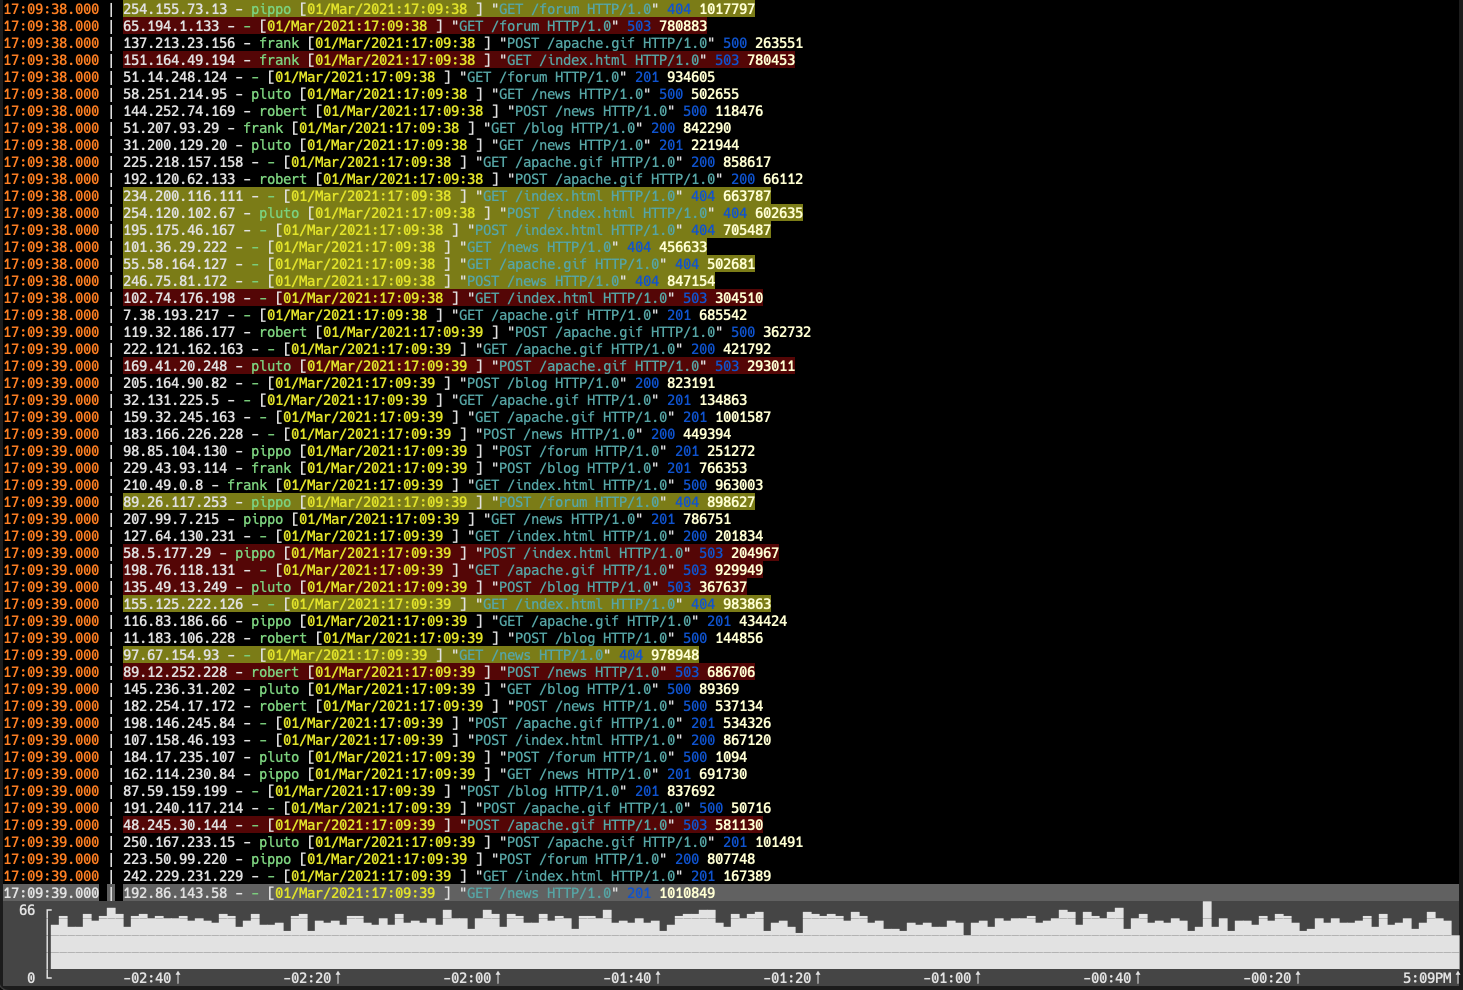
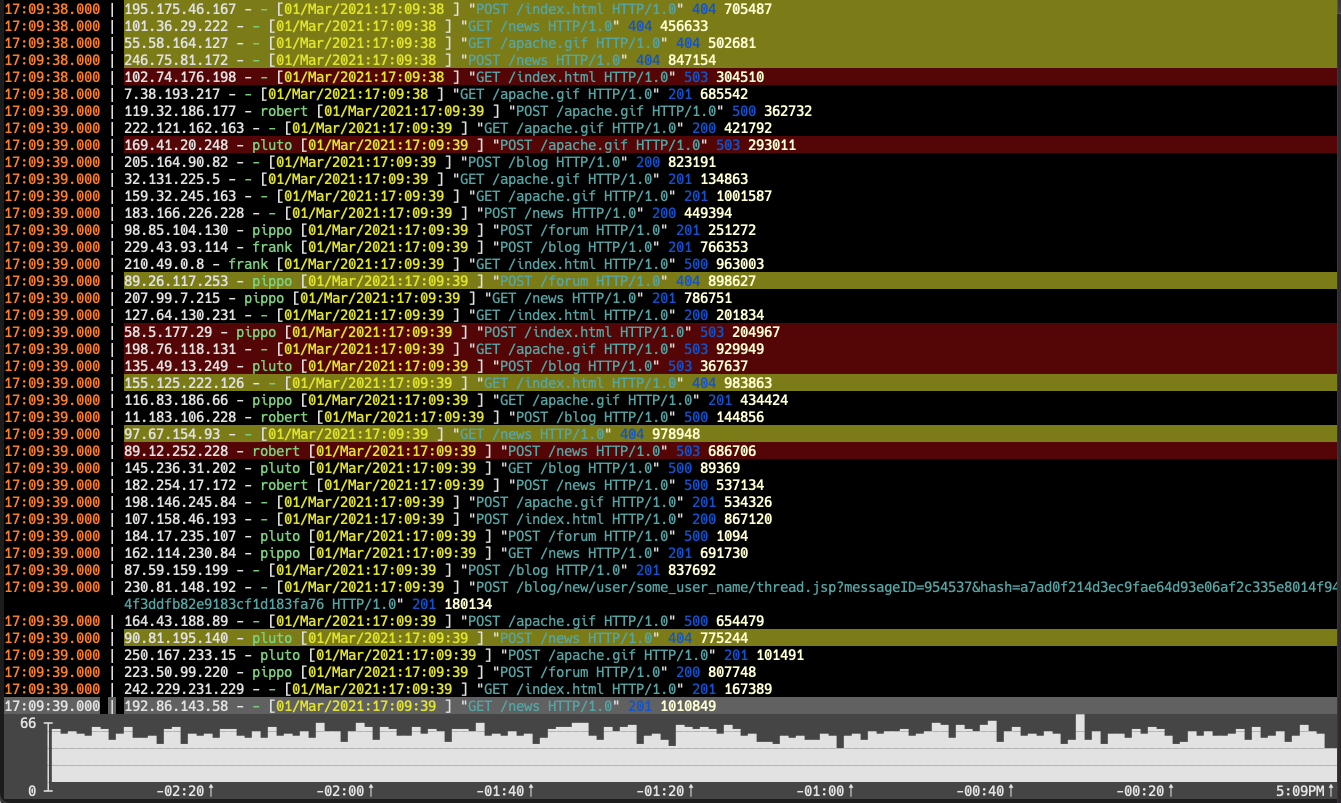
Fix deadlock when selecting event with mouse

diff --git a/logview.go b/logview.go
@@ -56,6 +56,7 @@ func (e *logEventLine) copy() *logEventLine {
 	return eventCopy
 }
 
+// OnCurrentChanged is an event time that is fired when current log event is changed
 type OnCurrentChanged func(current *LogEvent)
 
 // LogView is a Box that displays log events
@@ -413,6 +414,26 @@ func (lv *LogView) AppendEvents(events []*LogEvent) {
 	}
 }
 
+// ScrollPageDown scrolls the log view one screen down
+//
+// This will enable autofollowing if the last line has been reached
+func (lv *LogView) ScrollPageDown() {
+	lv.Lock()
+	defer lv.Unlock()
+
+	lv.scrollPageDown()
+}
+
+// ScrollPageUp scrolls the log view one screen up
+//
+// This does not disables following.
+func (lv *LogView) ScrollPageUp() {
+	lv.Lock()
+	defer lv.Unlock()
+
+	lv.scrollPageUp()
+}
+
 // ScrollToBottom scrolls the log view to the last event
 //
 // This does not automatically enables following. User SetFollowing function to enable it
@@ -613,20 +634,20 @@ func (lv *LogView) MouseHandler() func(action cview.MouseAction, event *tcell.Ev
 			return false, nil
 		}
 
-		lv.Lock()
-		defer lv.Unlock()
-
 		switch action {
 		case cview.MouseLeftClick:
-			localY := y + lv.screenCoords[1]
-			lv.setCurrent(lv.atOffset(lv.top, localY))
 			consumed = true
 			setFocus(lv)
+
+			lv.Lock()
+			defer lv.Unlock()
+			localY := y - lv.screenCoords[1]
+			lv.setCurrent(lv.atOffset(lv.top, localY))
 		case cview.MouseScrollUp:
-			lv.scrollPageUp()
+			lv.ScrollPageUp()
 			consumed = true
 		case cview.MouseScrollDown:
-			lv.scrollPageDown()
+			lv.ScrollPageDown()
 			consumed = true
 		}
 
@@ -1025,8 +1046,9 @@ func (lv *LogView) printLogLine(screen tcell.Screen, x int, y int, event *logEve
 	}
 	textPos := event.start
 	i := x
+	var style tcell.Style
 	for textPos < event.end {
-		style := event.styleSpans[spanIndex].style
+		style = event.styleSpans[spanIndex].style
 		if lv.highlightCurrent && event == lv.current { // overwrite bg color for current selected event
 			style = style.Background(lv.currentBgColor)
 		}
@@ -1037,8 +1059,7 @@ func (lv *LogView) printLogLine(screen tcell.Screen, x int, y int, event *logEve
 			spanIndex++
 		}
 	}
-	style := lv.defaultStyle.Background(lv.currentBgColor)
-	if i < lv.pageWidth && lv.highlightCurrent && event == lv.current {
+	if i < x+lv.pageWidth {
 		for i < x+lv.pageWidth {
 			screen.SetCell(i, y, style, ' ')
 			i++
@@ -1059,7 +1080,7 @@ func (lv *LogView) printLogLineNoHighlights(screen tcell.Screen, x int, y int, e
 			break
 		}
 	}
-	if i < lv.pageWidth && lv.highlightCurrent && event == lv.current {
+	if i < x+lv.pageWidth && lv.highlightCurrent && event == lv.current {
 		for i < x+lv.pageWidth {
 			screen.SetCell(i, y, style, ' ')
 			i++

diff --git a/main.go b/main.go
@@ -97,7 +97,7 @@ func main() {
 
 	lastTime := time.Date(2000, 1, 1, 1, 1, 1, 1, time.Local)
 	for i, line := range lines {
-		if len(strings.TrimSpace(line)) > 0 && rand.Float64() < 0.4 {
+		if len(strings.TrimSpace(line)) > 0 && rand.Float64() < 0.4 || len(line) > 100 {
 			st := status.FindString(line)
 			date := dtparse.FindStringSubmatch(line)
 			dt, err := dateparse.ParseLocal(date[1])
@@ -110,7 +110,6 @@ func main() {
 			} else if st == "503" {
 				level = LogLevelError
 			}
-			//level := logv.LogLevel(rand.Int31n(3))
 			event := &LogEvent{
 				EventID:   strconv.Itoa(i),
 				Level:     level,
